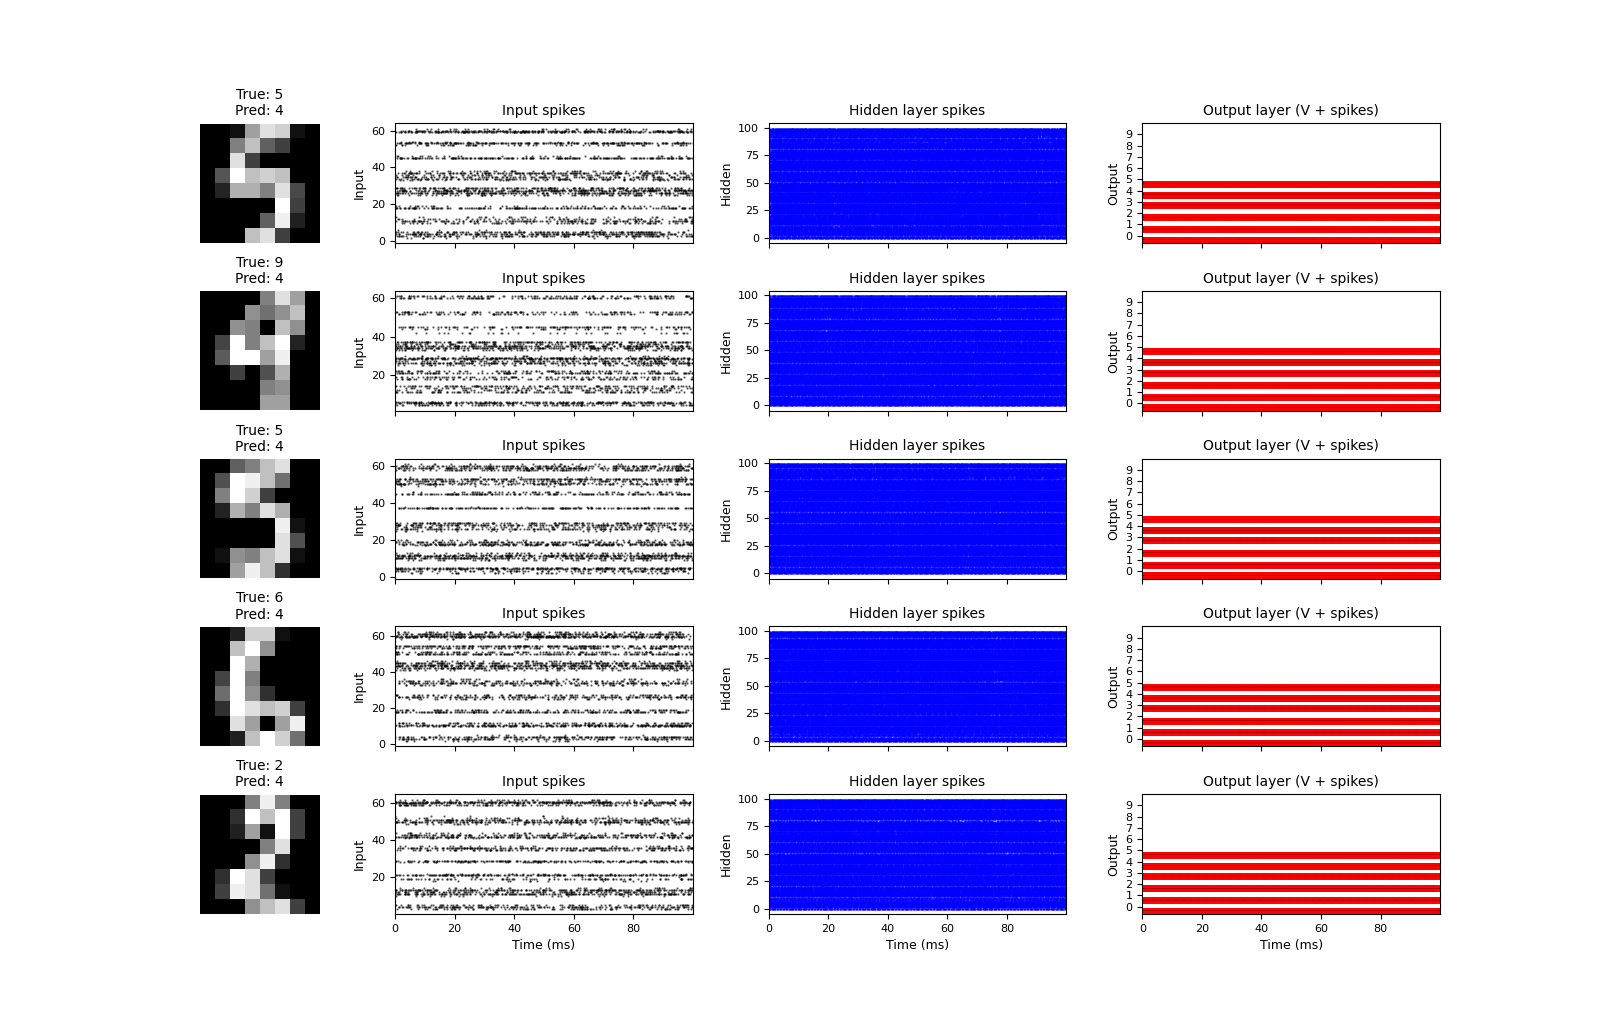
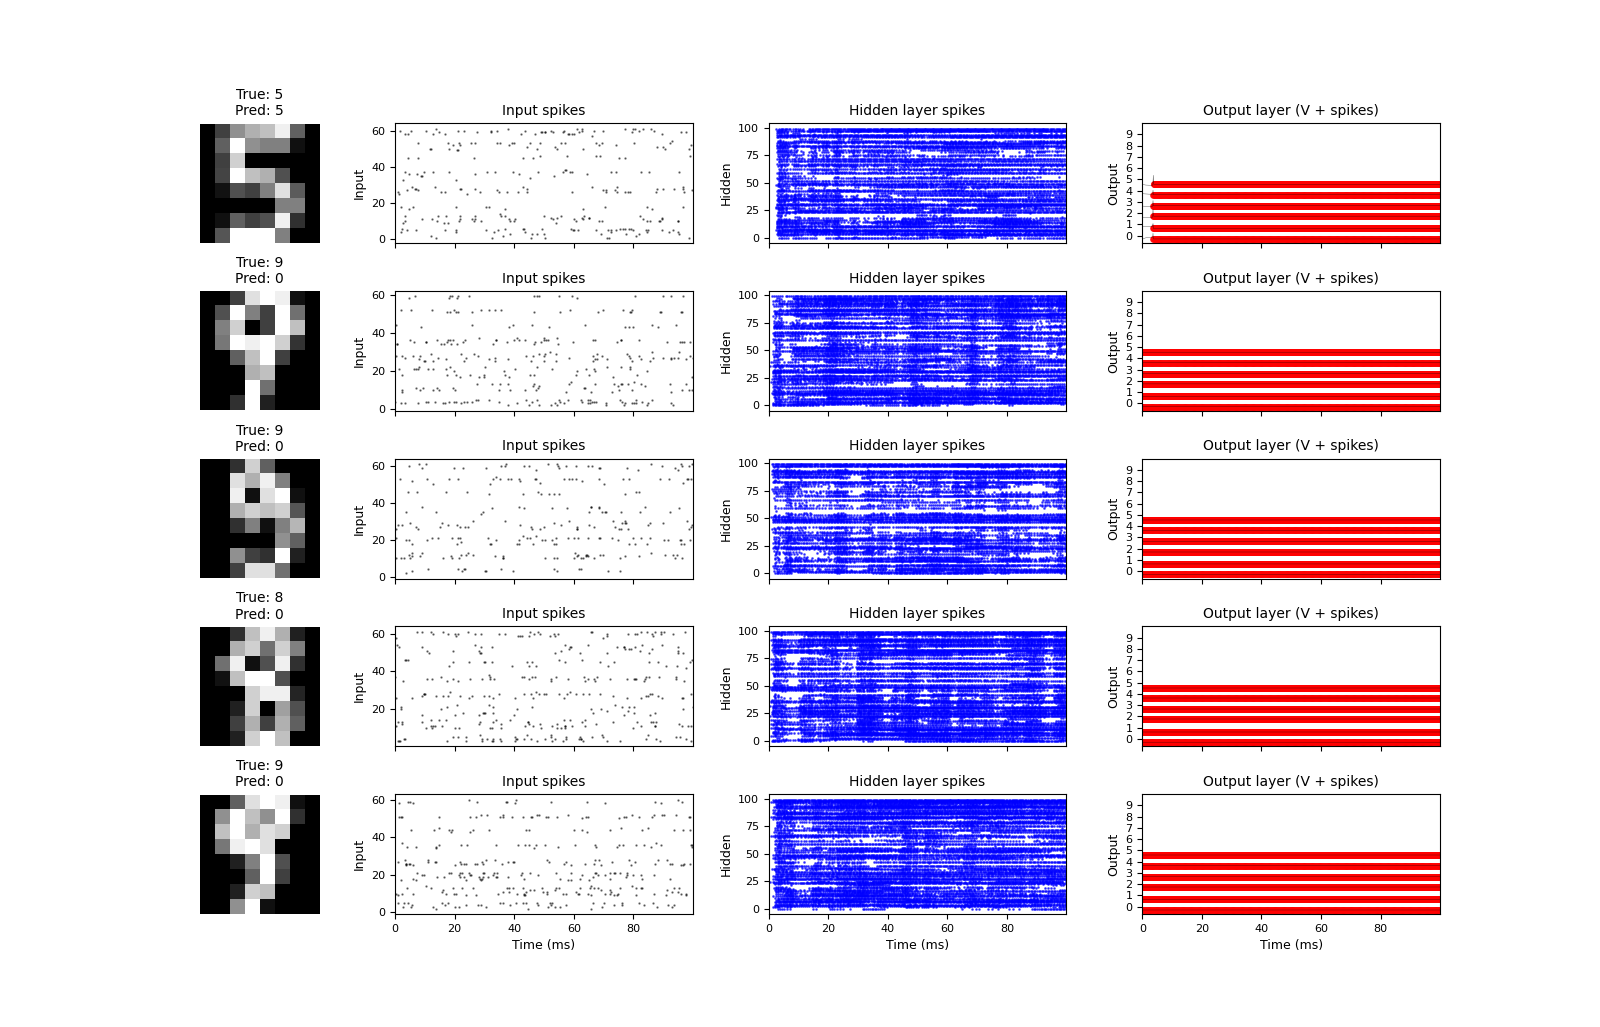
reduced lateral inhibition and state reset wip

diff --git a/main.py b/main.py
@@ -14,8 +14,6 @@ bp.math.set_platform('cpu')
 # ============================================================================
 
 class LIFNeuron(bp.dyn.NeuDyn):
-    """Leaky Integrate-and-Fire neuron with adaptive threshold"""
-class LIFNeuron(bp.dyn.NeuDyn):
     """Leaky Integrate-and-Fire neuron with adaptive threshold and heterogeneity"""
     def __init__(self, size, V_rest=-65., V_th=-50., V_reset=-65., tau=20., 
                  tau_ref=5., tau_adapt=100., a_adapt=0.01, bias=None,
@@ -132,11 +130,13 @@ class PoissonInput(bp.dyn.NeuDyn):
         
     def update(self, rates=None):
         if rates is not None:
-            self.rates[:] = rates  # Use assignment to existing variable
-        # Generate spikes based on Poisson process
-        prob = self.rates * 0.001 * 1.5  # Increased probability to generate more spikes
-        # Fix: use self.num instead of self.size for random generation
+            self.rates.value = rates
+        
+        # Correctly calculate spike probability based on rate (in Hz) and time step (in ms)
+        prob = self.rates * (bm.dt / 1000.)
         self.spike.value = bm.random.rand(self.num) < prob
+
+        
         return self.spike.value
 
 
@@ -152,48 +152,57 @@ class ExponentialSynapse(bp.dyn.SynConn):
         # Parameters
         self.g_max = g_max
         self.tau = tau
-        self.delay = int(delay)
+        
+        # Correctly calculate the delay in simulation steps
+        self.delay_step = int(np.round(delay / bm.get_dt()))
         
         # Get connection matrix
         self.conn_mat = self.conn.require('conn_mat')
         
-        # Initialize weights with some randomness if excitatory
+        # Initialize weights
         if g_max > 0:
-            # Random weights between 0.3 and 1.0 times g_max for more variation
             self.weights = bm.Variable(
                 self.conn_mat * bm.random.uniform(0.3, 1.0, self.conn_mat.shape) * g_max
             )
         else:
-            # For inhibitory, use fixed strength
             self.weights = bm.Variable(self.conn_mat * g_max)
         
         # Synaptic conductance
         self.g = bm.Variable(bm.zeros(post.num))
         
-        # Spike history buffer for delays
-        self.spike_buffer = bm.Variable(bm.zeros((self.delay, pre.num), dtype=bool))
-        
+        # Spike history buffer for delays (if delay is used)
+        if self.delay_step > 0:
+            self.spike_buffer = bm.Variable(bm.zeros((self.delay_step, pre.num), dtype=bool))
+            
     def update(self):
-        # Update synaptic conductance with exponential decay
-        self.g.value = self.g.value * (1 - 1/self.tau)
+        # Update synaptic conductance with correct exponential decay
+        self.g.value *= bm.exp(-bm.dt / self.tau)
         
-        # Get delayed spikes
-        if self.delay > 1:
+        # Get spikes (either delayed or current)
+        if self.delay_step > 0:
+            # Get the spikes that arrived from the past
             delayed_spikes = self.spike_buffer[0]
-            # Shift buffer
-            self.spike_buffer[:-1] = self.spike_buffer[1:]
+            
+            # Shift the buffer to make room for new spikes
+            # Note: This explicit loop is clear and works fine with JIT for fixed loop counts.
+            for i in range(self.delay_step - 1):
+                self.spike_buffer[i] = self.spike_buffer[i+1]
+            
+            # Add the current spike to the end of the buffer for the future
             self.spike_buffer[-1] = self.pre.spike
         else:
+            # No delay
             delayed_spikes = self.pre.spike
         
-        # Add input from pre-synaptic spikes
+        # REMOVED the "if bm.any(delayed_spikes):" condition.
+        # This calculation is now performed unconditionally, which is JIT-compatible.
+        # If delayed_spikes is all False, the result of the dot product will be zero.
         spike_input = bm.dot(delayed_spikes.astype(bm.float32), 
                            self.weights.astype(bm.float32))
-        self.g.value = self.g.value + spike_input
+        self.g.value += spike_input
         
         # Apply conductance to post-synaptic input
-        self.post.input.value = self.post.input.value + self.g.value
-
+        self.post.input.value += self.g.value
 
 class STDPSynapse(bp.dyn.SynConn):
     """Spike-Timing Dependent Plasticity synapse"""
@@ -202,7 +211,6 @@ class STDPSynapse(bp.dyn.SynConn):
                  w_min=0., w_max=2.):
         super().__init__(pre=pre, post=post, conn=conn)
         
-        # Parameters
         self.tau = tau
         self.tau_pre = tau_pre
         self.tau_post = tau_post
@@ -211,33 +219,27 @@ class STDPSynapse(bp.dyn.SynConn):
         self.w_min = w_min
         self.w_max = w_max
         
-        # Get connection matrix shape
         self.conn_mat = self.conn.require('conn_mat')
         
-        # Synaptic weights (plastic) - initialize with random values
         self.w = bm.Variable(
             self.conn_mat * bm.random.uniform(0.5 * g_max, g_max, self.conn_mat.shape)
         )
-        
-        # Synaptic conductance
         self.g = bm.Variable(bm.zeros(post.num))
-        
-        # STDP traces
         self.trace_pre = bm.Variable(bm.zeros(pre.num))
         self.trace_post = bm.Variable(bm.zeros(post.num))
         
     def update(self):
-        # Update synaptic conductance
-        self.g.value = self.g.value * (1 - 1/self.tau)
+        # Update synaptic conductance with correct decay
+        self.g.value *= bm.exp(-bm.dt / self.tau)
         
         # Add input from pre-synaptic spikes
         spike_input = bm.dot(self.pre.spike.astype(bm.float32), 
                            (self.conn_mat * self.w).astype(bm.float32))
-        self.g.value = self.g.value + spike_input
+        self.g.value += spike_input
         
-        # Update STDP traces
-        self.trace_pre.value *= (1 - 1/self.tau_pre)
-        self.trace_post.value *= (1 - 1/self.tau_post)
+        # Update STDP traces with correct decay
+        self.trace_pre.value *= bm.exp(-bm.dt / self.tau_pre)
+        self.trace_post.value *= bm.exp(-bm.dt / self.tau_post)
         
         # Update traces for spiking neurons
         self.trace_pre.value = bm.where(self.pre.spike, 
@@ -248,32 +250,26 @@ class STDPSynapse(bp.dyn.SynConn):
                                         self.trace_post)
         
         # STDP weight updates using vectorized operations
-        # LTD: When pre-synaptic neuron spikes
         pre_spike_expanded = self.pre.spike[:, None].astype(bm.float32)
         post_trace_expanded = self.trace_post[None, :].astype(bm.float32)
         ltd_update = -self.A_post * pre_spike_expanded * post_trace_expanded * self.w
         
-        # LTP: When post-synaptic neuron spikes
         pre_trace_expanded = self.trace_pre[:, None].astype(bm.float32)
         post_spike_expanded = self.post.spike[None, :].astype(bm.float32)
         ltp_update = self.A_pre * pre_trace_expanded * post_spike_expanded * (self.w_max - self.w)
         
-        # Apply updates only where connections exist
         weight_update = (ltd_update + ltp_update) * self.conn_mat
-        self.w.value = self.w + weight_update
+        self.w.value += weight_update
         
-        # Clip weights
         self.w.value = bm.clip(self.w, self.w_min, self.w_max)
         
-        # Apply conductance to post-synaptic input
-        self.post.input.value = self.post.input.value + self.g.value
-
+        self.post.input.value += self.g.value
 
 # ============================================================================
 # Network Model
 # ============================================================================
 
-class SpikingDigitClassifier(bp.dyn.Network):
+class SpikingDigitClassifier(bp.Network):
     """Multi-layer spiking neural network for digit classification"""
     def __init__(self, n_input=64, n_hidden=100, n_output=10, 
                  use_stdp=False, connection_prob=0.5):
@@ -315,7 +311,6 @@ class SpikingDigitClassifier(bp.dyn.Network):
         )
                 
         # Input to Hidden: structured connectivity
-        # Create connections that help with digit recognition
         conn_ih = bp.conn.FixedProb(prob=connection_prob)
         if use_stdp:
             self.syn_ih = STDPSynapse(
@@ -416,7 +411,7 @@ class SpikingDigitClassifier(bp.dyn.Network):
             pre=self.output_layer,
             post=self.output_layer,
             conn=conn_oo,
-            g_max=-8.0,
+            g_max=-8.0,  # MODIFIED: Reduced inhibition from -15.0 to -8.0
             tau=2.0
         )
 
@@ -428,11 +423,11 @@ class SpikingDigitClassifier(bp.dyn.Network):
                         # Create Mexican-hat profile: nearby neurons inhibit strongly
                         dist = min(abs(i - j), n_output - abs(i - j))
                         if dist == 1:
-                            self.syn_oo.weights[i, j] *= 2.0  # Strong local inhibition
+                            self.syn_oo.weights[i, j] *= 1.5  # Reduced from 2.0
                         elif dist == 2:
-                            self.syn_oo.weights[i, j] *= 0.5  # Weak medium-range
+                            self.syn_oo.weights[i, j] *= 0.75 # Adjusted from 0.5
                         else:
-                            self.syn_oo.weights[i, j] *= 0.1  # Very weak long-range
+                            self.syn_oo.weights[i, j] *= 0.25 # Adjusted from 0.1
         
     def update(self):
         # Update input layer (pass None to use internal rates)
@@ -441,19 +436,20 @@ class SpikingDigitClassifier(bp.dyn.Network):
         # Update input to hidden connections first
         self.syn_ih.update()
         
+        # Apply lateral inhibition in the hidden layer
+        self.syn_hh.update()
+        
         # Update hidden layer neurons
         self.hidden_layer.update()
         
         # Update hidden to output connections
         self.syn_ho.update()
         
+        # Apply winner-take-all inhibition in the output layer
+        self.syn_oo.update()
+        
         # Update output layer neurons
         self.output_layer.update()
-        
-        # Apply lateral inhibition AFTER neurons have updated
-        # This creates competition between neurons that have fired
-        self.syn_hh.update()
-        self.syn_oo.update()
         
         return self.output_layer.spike.value
 
@@ -535,49 +531,43 @@ def run_classification_demo():
         sample = X_test[test_idx]
         label = y_test[test_idx]
         
-        # Convert to firing rates - use different scaling for each pixel
-        # This creates more variation in the input patterns
-        input_rates = encode_rate(sample, max_rate=150.)  # Increased max rate
         
-        # Apply spatial filtering to enhance edges (helps differentiate digits)
-        input_2d = sample.reshape(8, 8)
-        # Simple edge enhancement
-        kernel = np.array([[-1, -1, -1], [-1, 8, -1], [-1, -1, -1]]) / 9.0
-        from scipy.ndimage import convolve
-        filtered = convolve(input_2d, kernel, mode='constant')
-        filtered = np.clip(filtered, 0, 1)
-        enhanced_rates = encode_rate(filtered.flatten(), max_rate=150.)
-        
-        # Combine original and enhanced rates
-        input_rates = 0.7 * input_rates + 0.3 * enhanced_rates
+        # Convert to firing rates
+        input_rates = encode_rate(sample, max_rate=150.)
         
         # Debug: Check input rates
         if idx == 0:
             print(f"  Debug - Input rates min: {np.min(input_rates):.1f}, max: {np.max(input_rates):.1f}, mean: {np.mean(input_rates):.1f}")
         
-        # Reset network state
-        net.input_layer.spike[:] = False
-        net.hidden_layer.V[:] = net.hidden_layer.V_rest + bm.random.uniform(-5, 5, net.n_hidden)
+        # --- FULL NETWORK STATE RESET ---
+        # 1. Reset neuron states with added randomness to break symmetry
+        net.hidden_layer.V[:] = net.hidden_layer.V_rest + bm.random.normal(0, 2.0, net.n_hidden)
+        net.output_layer.V[:] = net.output_layer.V_rest + bm.random.normal(0, 2.0, net.n_output)
+        
         net.hidden_layer.spike[:] = False
-        net.hidden_layer.refractory[:] = 0
-        net.output_layer.V[:] = net.output_layer.V_rest + bm.random.uniform(-3, 3, net.n_output)
         net.output_layer.spike[:] = False
-        net.output_layer.refractory[:] = 0
         
-        # Reset adaptations too
-        net.hidden_layer.adaptation[:] = bm.random.uniform(0, 0.5, net.n_hidden)
-        net.output_layer.adaptation[:] = bm.random.uniform(0, 0.3, net.n_output)
+        net.hidden_layer.refractory[:] = 0.
+        net.output_layer.refractory[:] = 0.
         
-        # Also reset voltage thresholds to baseline
+        # 2. Reset adaptation variables and thresholds
+        net.hidden_layer.adaptation[:] = bm.random.uniform(0, 0.1, net.n_hidden)
+        net.output_layer.adaptation[:] = bm.random.uniform(0, 0.1, net.n_output)
         net.hidden_layer.V_th[:] = net.hidden_layer.V_th_base
         net.output_layer.V_th[:] = net.output_layer.V_th_base
+
+        # 3. Reset synaptic conductances (Crucial for preventing interference between samples)
+        net.syn_ih.g[:] = 0.
+        net.syn_ho.g[:] = 0.
+        net.syn_hh.g[:] = 0.
+        net.syn_oo.g[:] = 0.
         
-        # Reset synaptic conductances
-        net.syn_ih.g[:] = 0.0
-        net.syn_ho.g[:] = bm.random.uniform(0, 0.5, net.n_output)
-        net.syn_hh.g[:] = 0.0
-        net.syn_oo.g[:] = 0.0
+        # 4. Reset input layer states
+        net.input_layer.spike[:] = False
+        net.input_layer.rates[:] = input_rates
         
+
+
         # Create runner for this sample
         runner = bp.DSRunner(
             net,
@@ -591,9 +581,6 @@ def run_classification_demo():
             dt=dt,
             progress_bar=False  # Disable progress bar for cleaner output
         )
-        
-        # Set input rates
-        net.input_layer.rates[:] = input_rates
         
         # Run simulation
         runner.run(T_present)
@@ -627,14 +614,12 @@ def run_classification_demo():
             print(f"  Debug - Max output voltage: {np.max(runner.mon['output_V']):.2f}")
             print(f"  Debug - Input spike rate: {np.mean(np.sum(runner.mon['input_spikes'], axis=0)):.1f} spikes")
             print(f"  Debug - Hidden spike rate: {np.mean(np.sum(runner.mon['hidden_spikes'], axis=0)):.1f} spikes")
-            # Check if input is actually spiking
             total_input_spikes = np.sum(runner.mon['input_spikes'])
             print(f"  Debug - Total input spikes: {total_input_spikes}")
             if total_input_spikes == 0:
                 print("  WARNING: No input spikes generated!")
-            # Check variation in output
-            if len(np.unique(output_spike_counts)) == 1:
-                print("  WARNING: All output neurons have identical spike counts!")
+            if len(np.unique(output_spike_counts)) <= 2:
+                print("  WARNING: Output neurons have very similar spike counts!")
     
     # Calculate accuracy
     accuracy = np.mean(np.array(predictions) == np.array(true_labels))
@@ -727,7 +712,7 @@ def visualize_classification_results(spike_data_list):
             ax_hidden.set_xticklabels([])
             ax_output.set_xticklabels([])
     
-    plt.tight_layout()
+    #plt.tight_layout()
     
     plt.show()
 
